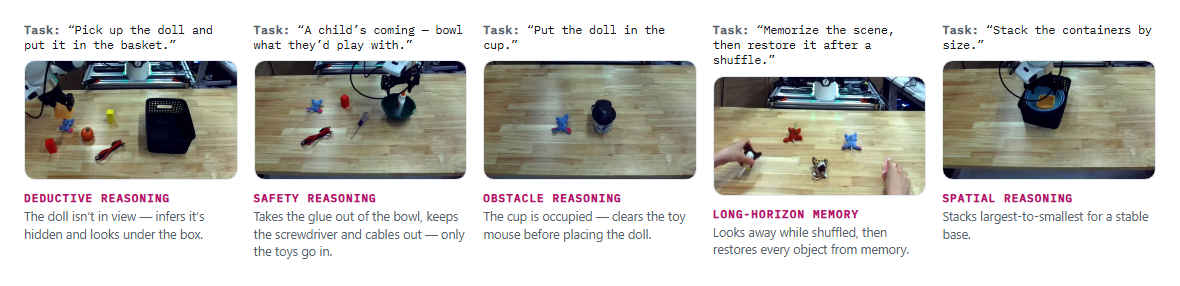
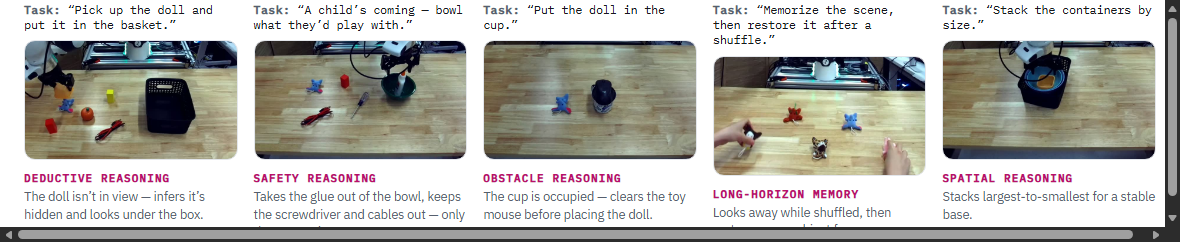
Link Code button to GitHub repo (coming soon); finalize teaser figure

diff --git a/index.html b/index.html
@@ -110,8 +110,8 @@
   .btn:hover{transform:translateY(-1px); box-shadow:0 6px 16px -10px rgba(0,0,0,.4)}
   .btn.primary{background:var(--ink); color:#fff; border-color:var(--ink)}
   .btn.primary:hover{background:var(--ours-strong); border-color:var(--ours-strong)}
-  .btn.soon{color:var(--faint); border-color:var(--line-strong); cursor:default; background:var(--surface)}
-  .btn.soon:hover{transform:none; box-shadow:none}
+  .btn.soon{color:var(--slate); border-color:var(--line-strong); background:var(--surface)}
+  .btn.soon:hover{border-color:var(--ink); color:var(--ink)}
   .btn.soon .tag{font-size:11px; color:var(--faint); padding-left:2px}
   .btn svg{width:15px; height:15px}
 
@@ -464,10 +464,10 @@
           <svg viewBox="0 0 24 24" fill="none" stroke="currentColor" stroke-width="2"><path d="M6 2h9l5 5v15H6z"/><path d="M14 2v6h6"/></svg>
           Paper
         </a>
-        <span class="btn soon" data-link="code" title="Code release coming soon">
+        <a class="btn soon" href="https://github.com/lianegalanti/Pigey" data-link="code" title="Code release coming soon">
           <svg viewBox="0 0 24 24" fill="none" stroke="currentColor" stroke-width="2"><path d="M9 18l-6-6 6-6M15 6l6 6-6 6"/></svg>
           Code <span class="tag">· coming soon</span>
-        </span>
+        </a>
       </div>
     </div>
 
